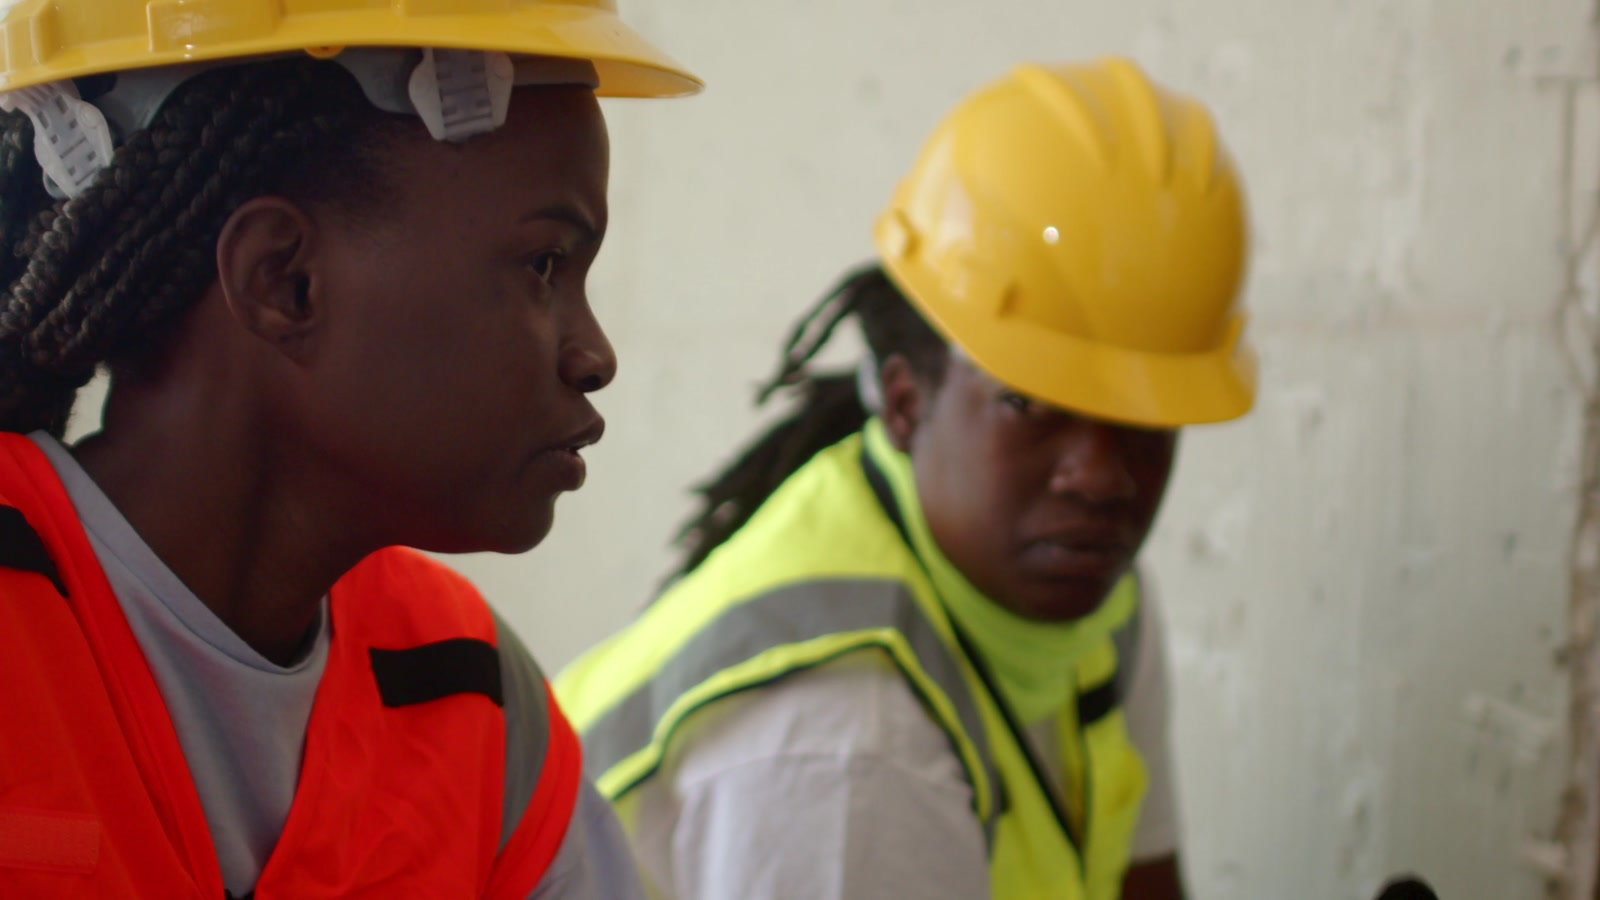
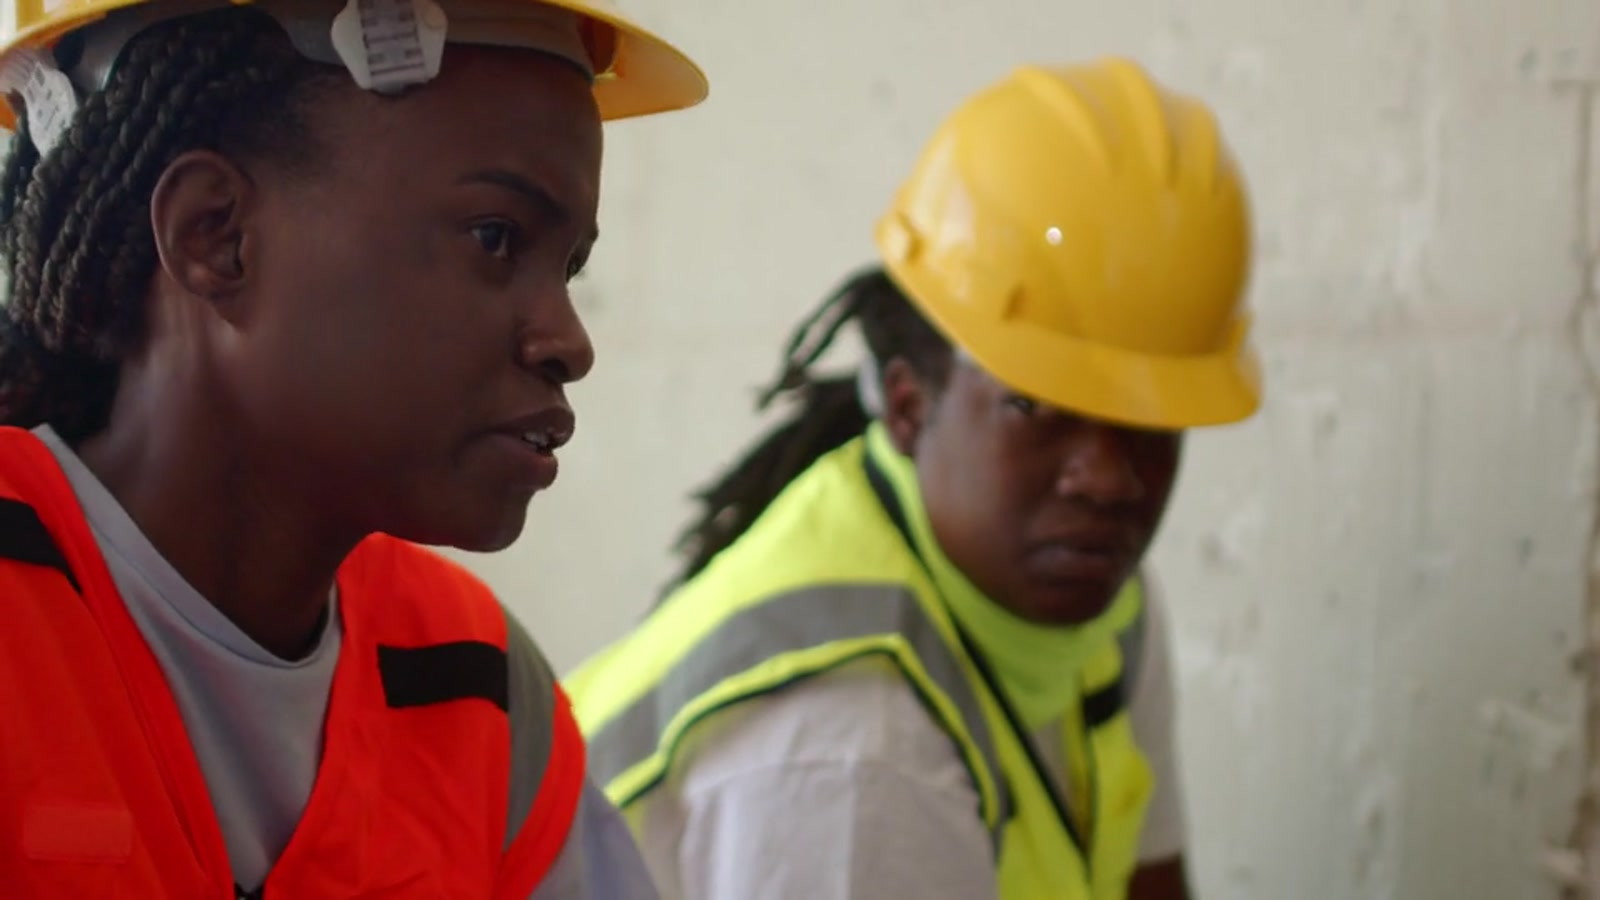
Refine hero montage with client ceiling interiors and a Nigerian residence

diff --git a/src/components/company-hero.tsx b/src/components/company-hero.tsx
@@ -105,7 +105,7 @@ export default function CompanyHero() {
         </div>
       </div>
       <span className="mono absolute right-[clamp(20px,4vw,64px)] bottom-[clamp(24px,4vw,44px)] z-10 text-[7.5px] tracking-[0.14em] uppercase text-paper/45">
-        Illustrative brand image
+        Client work + illustrative scene
       </span>
     </section>
   );

diff --git a/docs/VIDEO_CREDITS.md b/docs/VIDEO_CREDITS.md
@@ -25,16 +25,18 @@ These are stock interiors, not Ephtech projects. They are used to test the motio
 
 - Files: `public/videos/company-hero.mp4` and
   `public/videos/company-hero-poster.jpg`
-- Edit: four 3.5-second scenes with 0.8-second crossfades; 960×540; muted;
-  trimmed from the sources below. The hero is labelled “Illustrative brand image”.
+- Edit: four 3.5-second scenes with 0.8-second crossfades; 960×540; muted.
+  Scene 1 is stock; scenes 2–4 are client-supplied stills with a slow zoom. The
+  hero label reads “Client work + illustrative scene”.
 - License: Pexels License for all four clips. Free for commercial use.
-- Scene 1 — two Black women engineers on site: Kindel Media, Pexels video 8487867
-  https://www.pexels.com/video/close-up-of-women-talking-at-a-construction-site-8487867/
-- Scene 2 — finished living room: Max Vakhtbovych, Pexels video 7533207
-  https://www.pexels.com/video/a-modern-living-room-7533207/
-- Scene 3 — designed office interior: Luke Holley, Pexels video 34626856
-  https://www.pexels.com/video/modern-office-space-with-artistic-design-34626856/
-- Scene 4 — completed house and landscaped garden: Alef Morais, Pexels video 40808151
-  https://www.pexels.com/video/modern-tropical-house-with-lush-garden-40808151/
+- Scene 1 — two Black women engineers on site: **Kindel Media**, Pexels video
+  [8487867](https://www.pexels.com/video/close-up-of-women-talking-at-a-construction-site-8487867/).
+  Stock / illustrative.
+- Scene 2 — furnished apartment with white ceiling: **client-supplied**
+  `work-interior.jpg` (from `WhatsApp Image 2026-11-22 at 10.50.54 (2).jpeg`).
+- Scene 3 — office with suspended white ceiling: **client-supplied**
+  `work-ceiling.jpg` (from `WhatsApp Image 2026-11-22 at 10.50.54.jpeg`).
+- Scene 4 — completed Nigerian residence: **client-supplied**
+  `work-real-estate.jpg` (from `WhatsApp Image 2026-11-23 at 18.02.34 (9).jpeg`).
 - Usage: temporary company homepage hero. Replace with an Ephtech brand film when
   available.

diff --git a/docs/IMAGE_CREDITS.md b/docs/IMAGE_CREDITS.md
@@ -154,16 +154,18 @@ placements.
 
 - Files: `public/videos/company-hero.mp4` and
   `public/videos/company-hero-poster.jpg`
-- Edit: four 3.5-second scenes with 0.8-second crossfades; 960×540; muted;
-  trimmed from the sources below. The hero is labelled “Illustrative brand image”.
+- Edit: four 3.5-second scenes with 0.8-second crossfades; 960×540; muted.
+  Scene 1 is stock; scenes 2–4 are client-supplied stills with a slow zoom. The
+  hero label reads “Client work + illustrative scene”.
 - License: Pexels License for all four clips. Free for commercial use.
-- Scene 1 — two Black women engineers on site: Kindel Media, Pexels video 8487867
-  https://www.pexels.com/video/close-up-of-women-talking-at-a-construction-site-8487867/
-- Scene 2 — finished living room: Max Vakhtbovych, Pexels video 7533207
-  https://www.pexels.com/video/a-modern-living-room-7533207/
-- Scene 3 — designed office interior: Luke Holley, Pexels video 34626856
-  https://www.pexels.com/video/modern-office-space-with-artistic-design-34626856/
-- Scene 4 — completed house and landscaped garden: Alef Morais, Pexels video 40808151
-  https://www.pexels.com/video/modern-tropical-house-with-lush-garden-40808151/
+- Scene 1 — two Black women engineers on site: **Kindel Media**, Pexels video
+  [8487867](https://www.pexels.com/video/close-up-of-women-talking-at-a-construction-site-8487867/).
+  Stock / illustrative.
+- Scene 2 — furnished apartment with white ceiling: **client-supplied**
+  `work-interior.jpg` (from `WhatsApp Image 2026-11-22 at 10.50.54 (2).jpeg`).
+- Scene 3 — office with suspended white ceiling: **client-supplied**
+  `work-ceiling.jpg` (from `WhatsApp Image 2026-11-22 at 10.50.54.jpeg`).
+- Scene 4 — completed Nigerian residence: **client-supplied**
+  `work-real-estate.jpg` (from `WhatsApp Image 2026-11-23 at 18.02.34 (9).jpeg`).
 - Usage: temporary company homepage hero. Replace with an Ephtech brand film when
   available.

diff --git a/README.md b/README.md
@@ -54,8 +54,11 @@ npm run start
 
 ## What is temporary
 
-- The homepage hero video, road-construction image, importation image and
-  landscaping image are temporary stock media and are labelled **Illustrative**.
+- The homepage hero mixes a temporary stock opening scene with client-supplied
+  interior and exterior stills. Stock is labelled **Illustrative**; the hero
+  label reads “Client work + illustrative scene”.
+- The road-construction, importation and landscaping images are temporary stock
+  and are labelled **Illustrative**.
 - Client project names and locations are withheld pending approval.
 - WhatsApp opens a prefilled enquiry for the project team; there is no quote form
   or backend.
